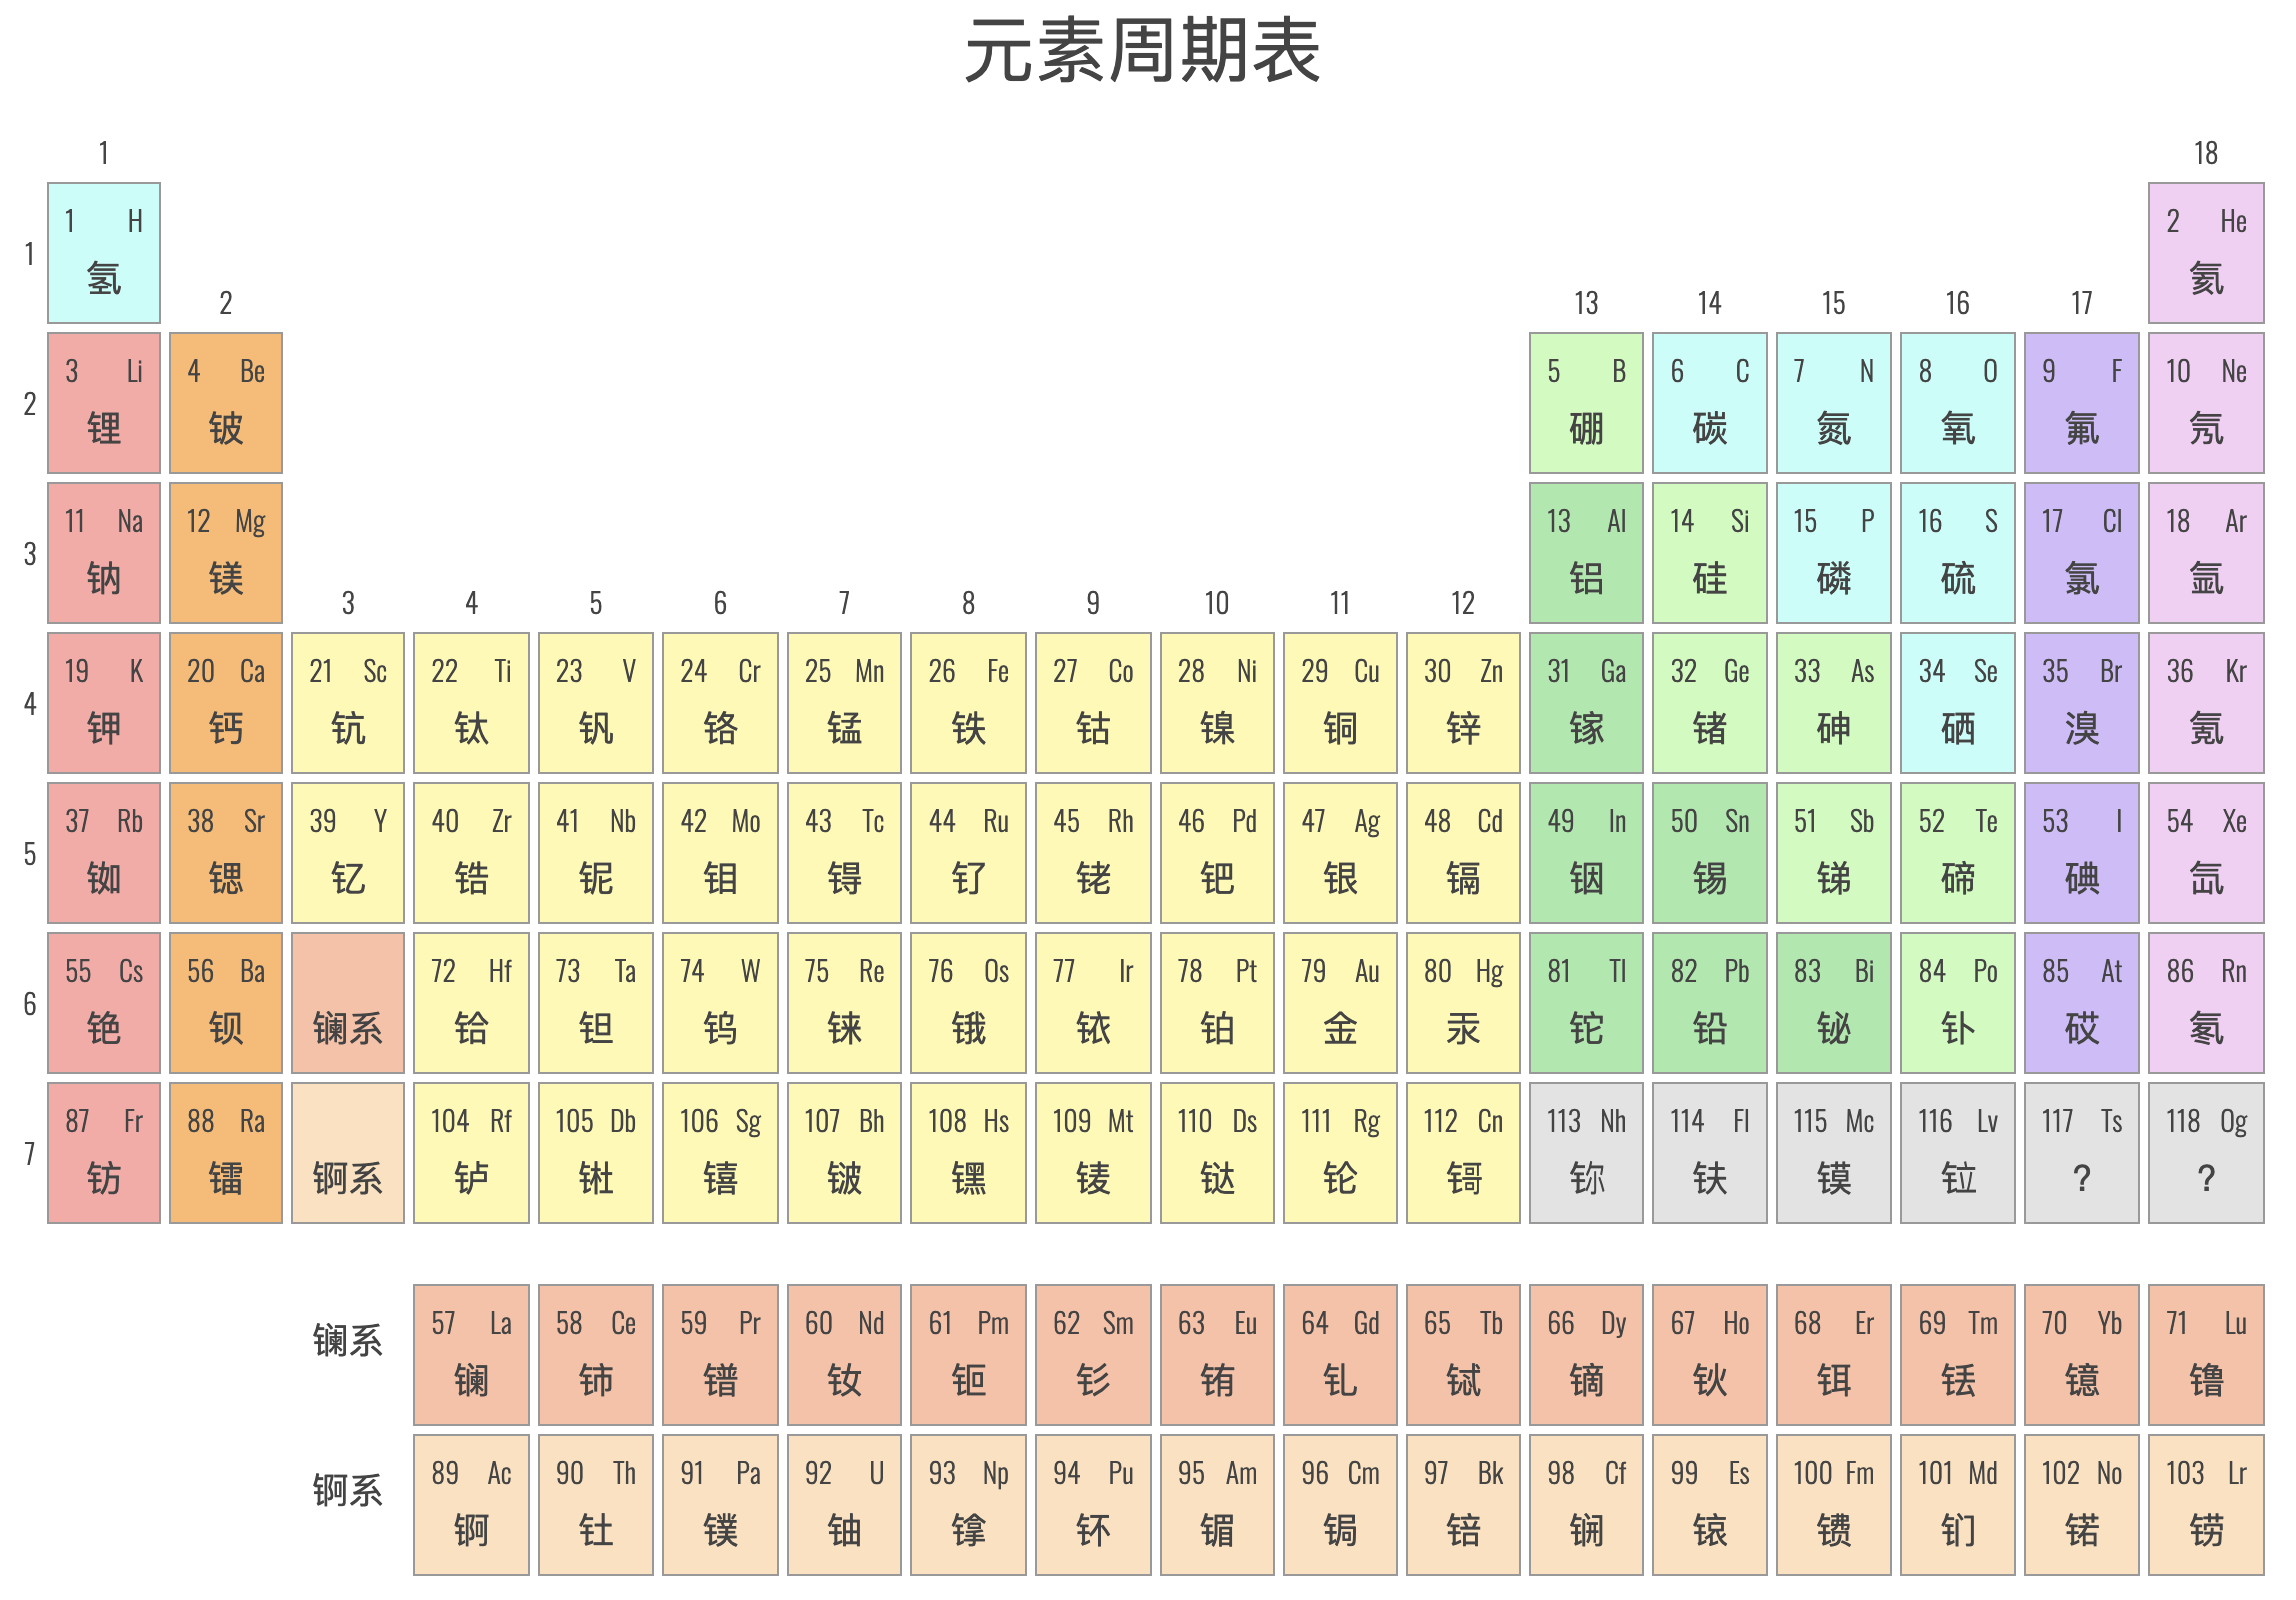
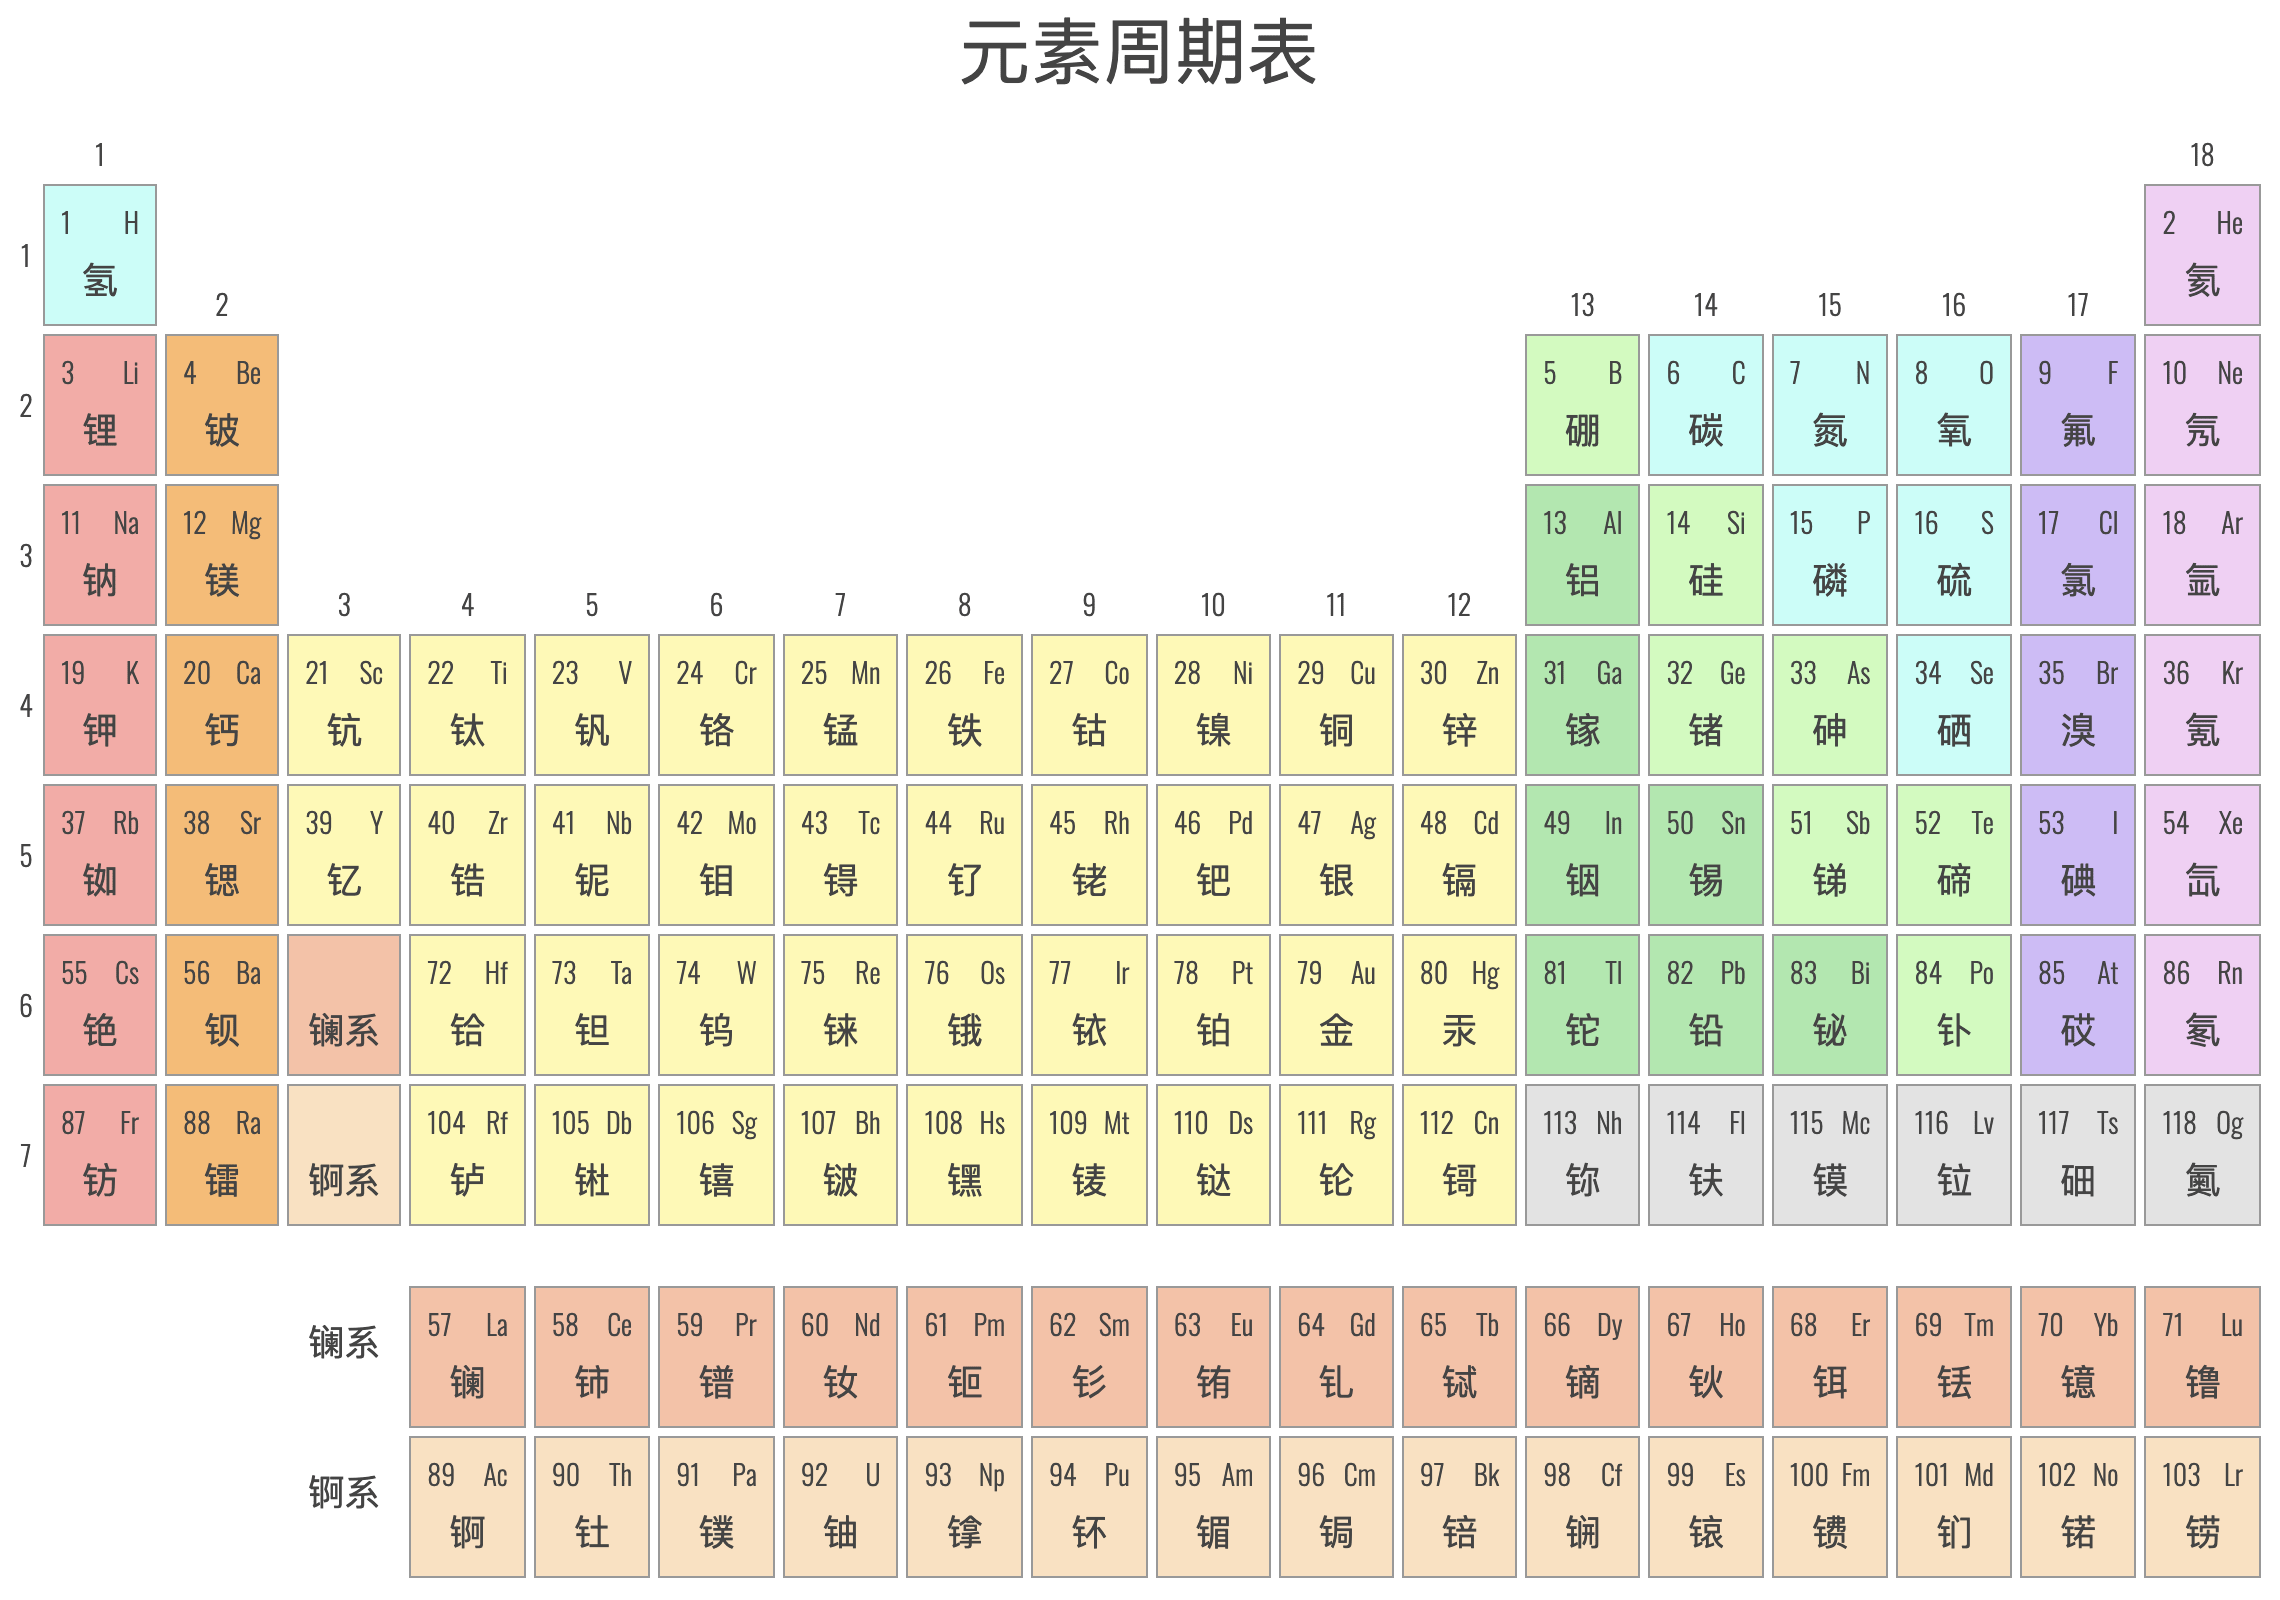
update periodic

diff --git a/index.html b/index.html
@@ -126,13 +126,13 @@
             ['鿏', 'Mt', 'transition-metals', 278],
             ['𫟼', 'Ds', 'transition-metals', 281],
             ['𬬭', 'Rg', 'transition-metals', 282],
-            ['钅哥', 'Cn', 'transition-metals', 285],
-            ['钅尔', 'Nh', 'uncategorized', 286],
+            ['鿔', 'Cn', 'transition-metals', 285],
+            ['鿭', 'Nh', 'uncategorized', 286],
             ['𫓧', 'Fl', 'uncategorized', 289],
             ['镆', 'Mc', 'uncategorized', 290],
-            ['钅立', 'Lv', 'uncategorized', 293],
-            ['?', 'Ts', 'uncategorized', 294],
-            ['?', 'Og', 'uncategorized', 294],
+            ['𫟷', 'Lv', 'uncategorized', 293],
+            ['鿬', 'Ts', 'uncategorized', 294],
+            ['鿫', 'Og', 'uncategorized', 294],
         ]
         $(function () {
             init();
